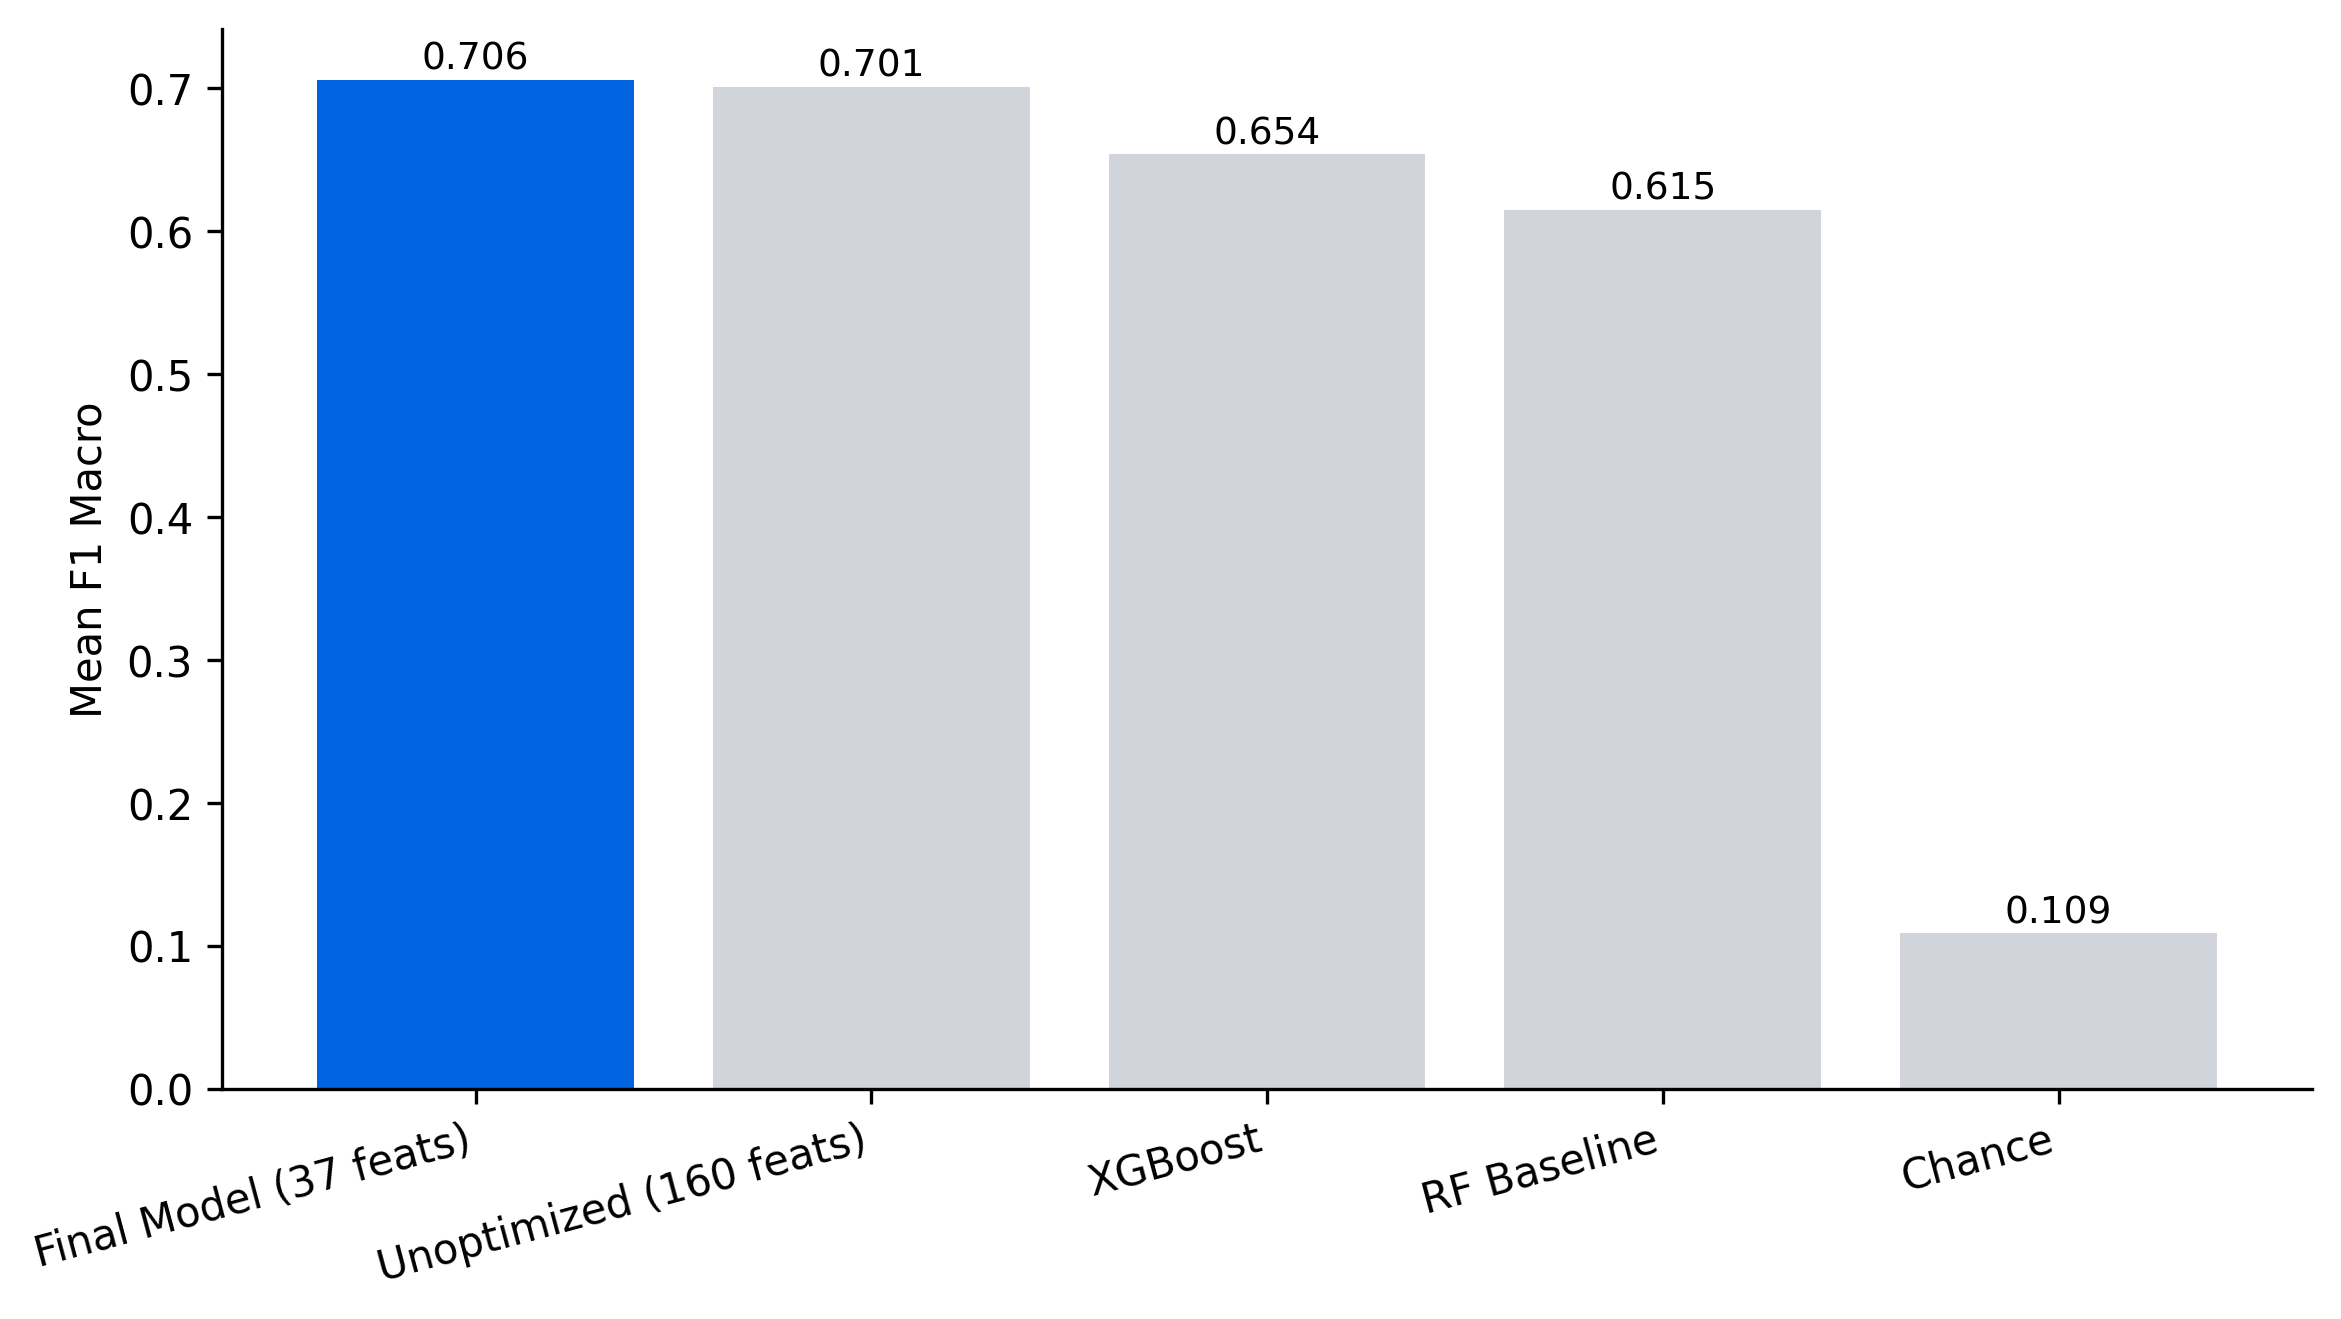
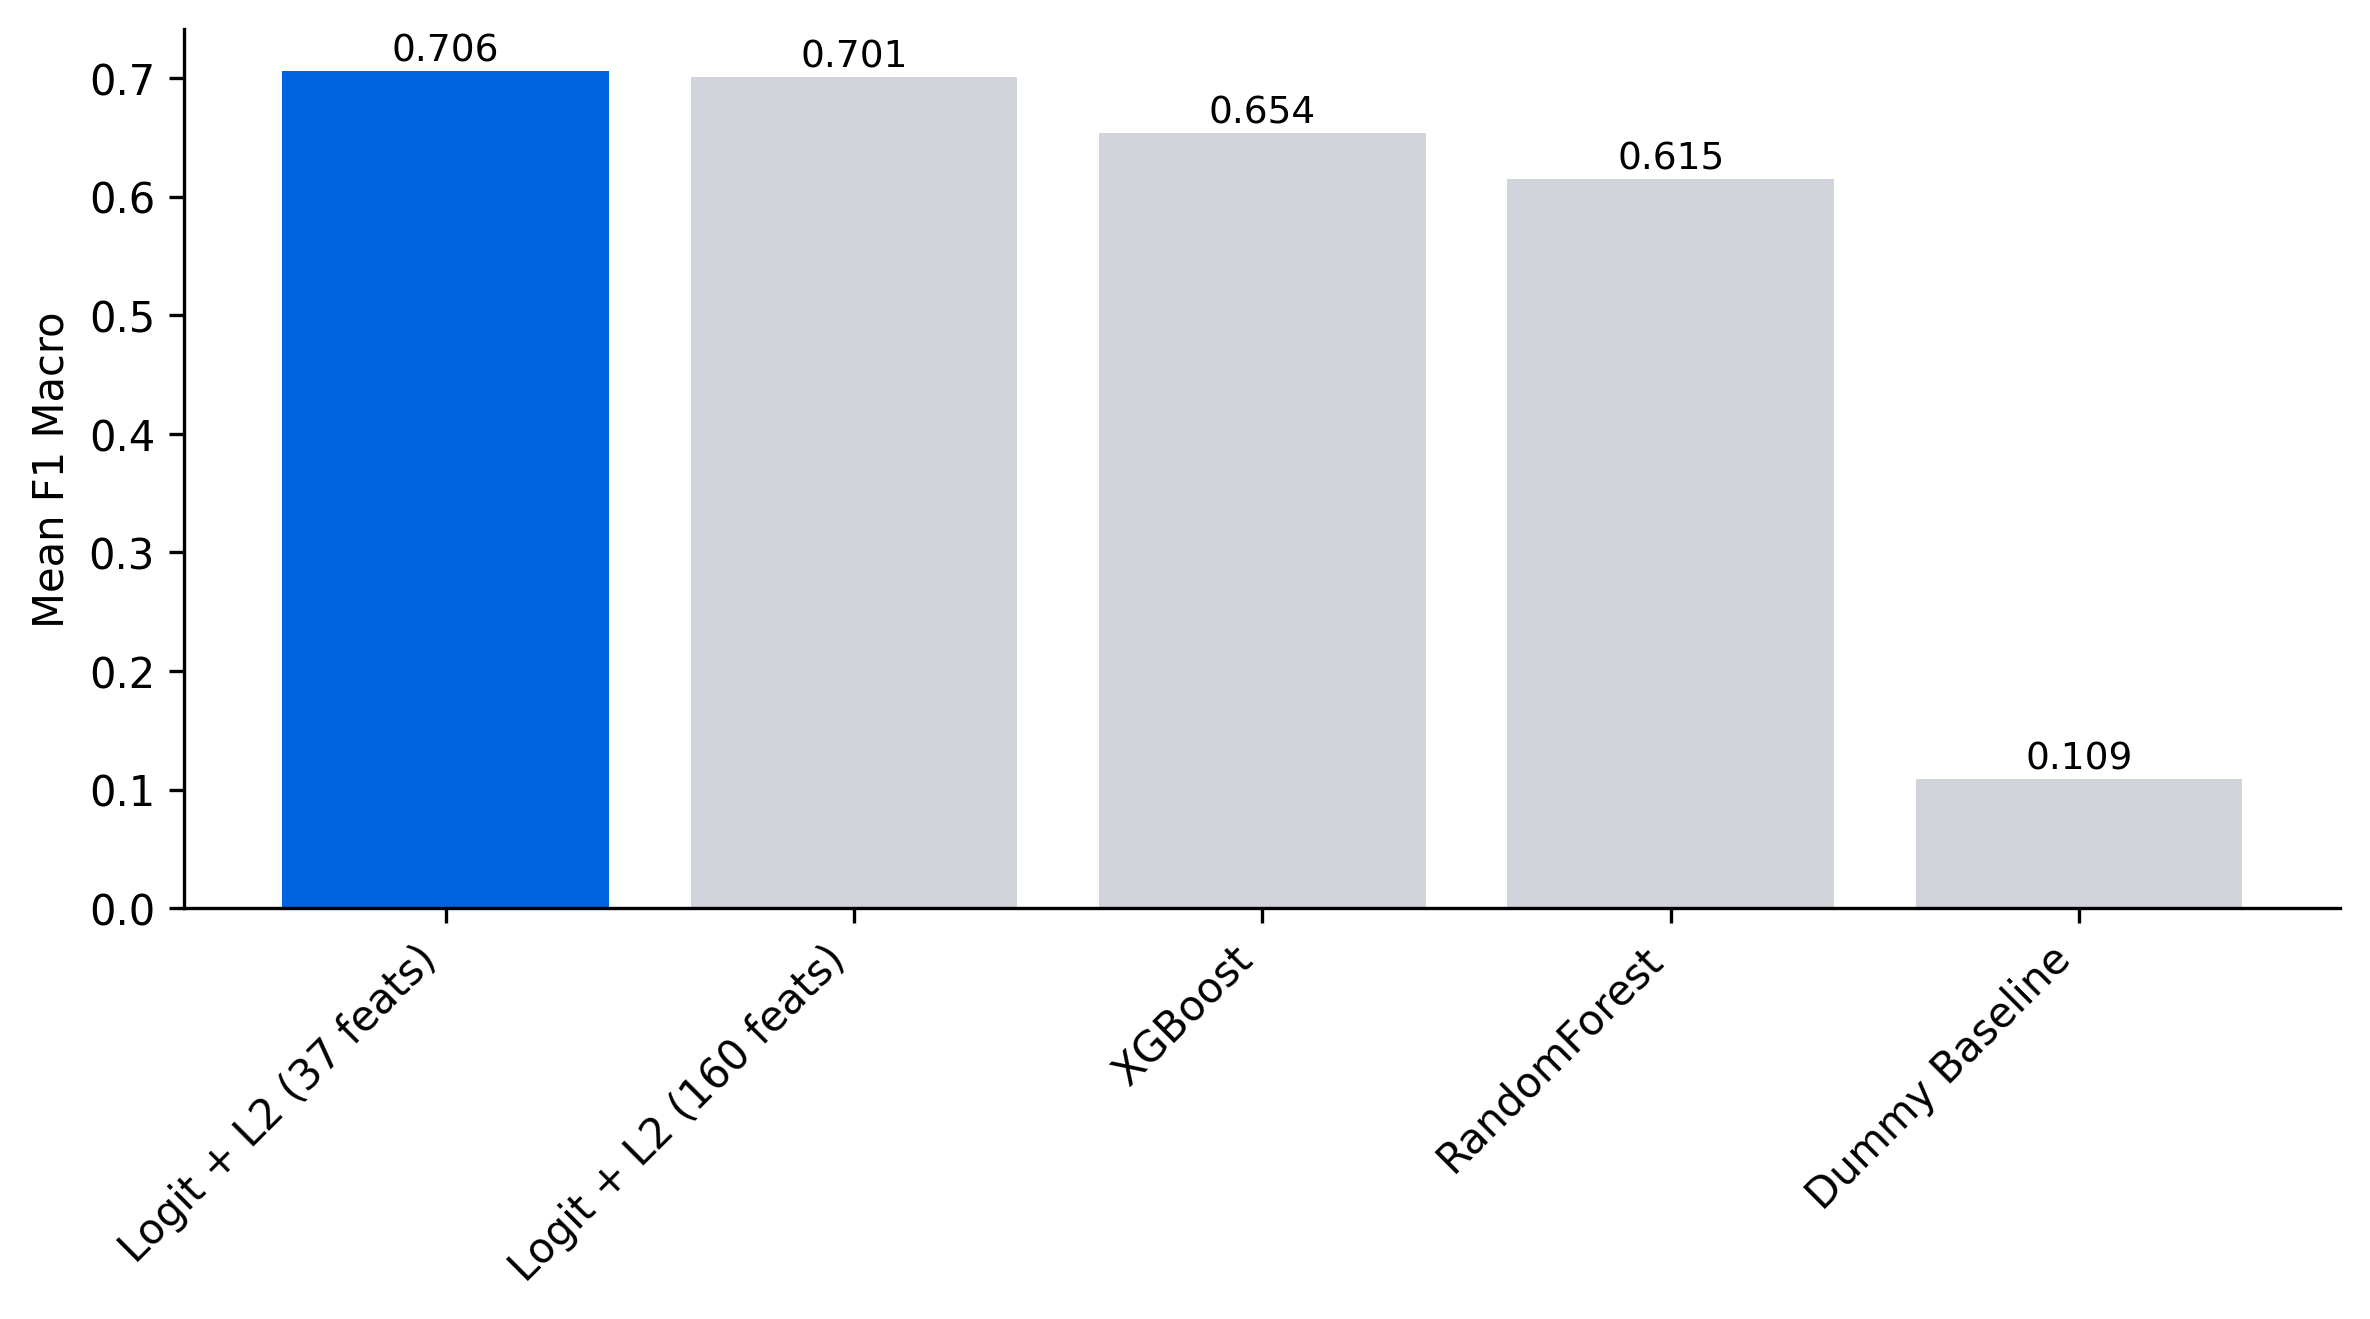
Docs: update technical comparison plot with L2 regularization details

diff --git a/README.md b/README.md
@@ -72,7 +72,7 @@ To run end-to-end with documented ordering, see `run_pipeline.sh`.
 ## Key Visualizations
 
 ![Model Performance](results/final/model_comparison_story.png)
-Model Performance: Our optimized logistic regression (Meta Blue) outperforms both the full-feature version and complex ensembles, proving that physiological feature selection (160 → 37 features) drives better generalization than brute force.
+Model Comparison: The L2-regularized Logistic Regression with 37 selected features (Blue) outperforms the full 160-feature model and tree-based ensembles, demonstrating that physiological feature selection yields the most generalizable solution.
 
 ![Classification Errors](results/figures/confusion_matrix_analysis.png)
 Confusion matrix showing classification performance. Off-diagonal elements highlight specific gestures that are frequently misclassified.
